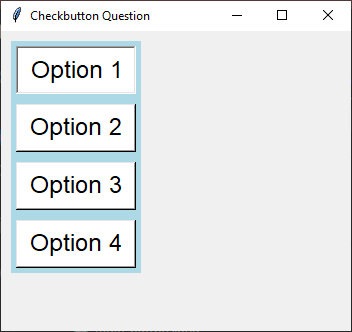
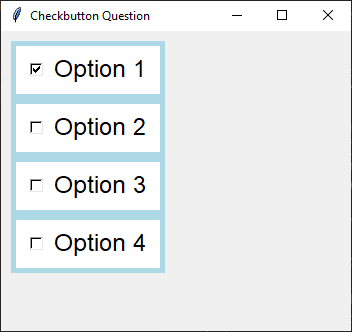
up

diff --git a/docs/tk_widgets/python_checkbutton/tk_check_button_questions.py b/docs/tk_widgets/python_checkbutton/tk_check_button_questions.py
@@ -28,7 +28,7 @@ for option in options_grp1:
 
 # Create and pack the checkbuttons for group 1
 for option, var in zip(options_grp1, option_vars1):
-    button = tk.Checkbutton(frame1, text=option, variable=var, indicatoron=0,
+    button = tk.Checkbutton(frame1, text=option, variable=var, indicatoron=1,
                             bg="white", fg="black", font=fontStyle, padx=10, pady=5)
     button.pack(anchor="nw", side="top", padx=5, pady=5)
 

diff --git a/docs/tk_widgets/tk_checkbutton.rst b/docs/tk_widgets/tk_checkbutton.rst
@@ -92,12 +92,12 @@ Using check buttons
     # Run the main event loop
     root.mainloop()
 
---
+----
 
 
 .. admonition:: Tasks
 
-     #. Modify the code to have 4 check boxes, one under another.
+    #. Modify the code to have 4 check boxes, one under another.
 
         .. image:: images/check_buttons_question.png
             :scale: 67%
